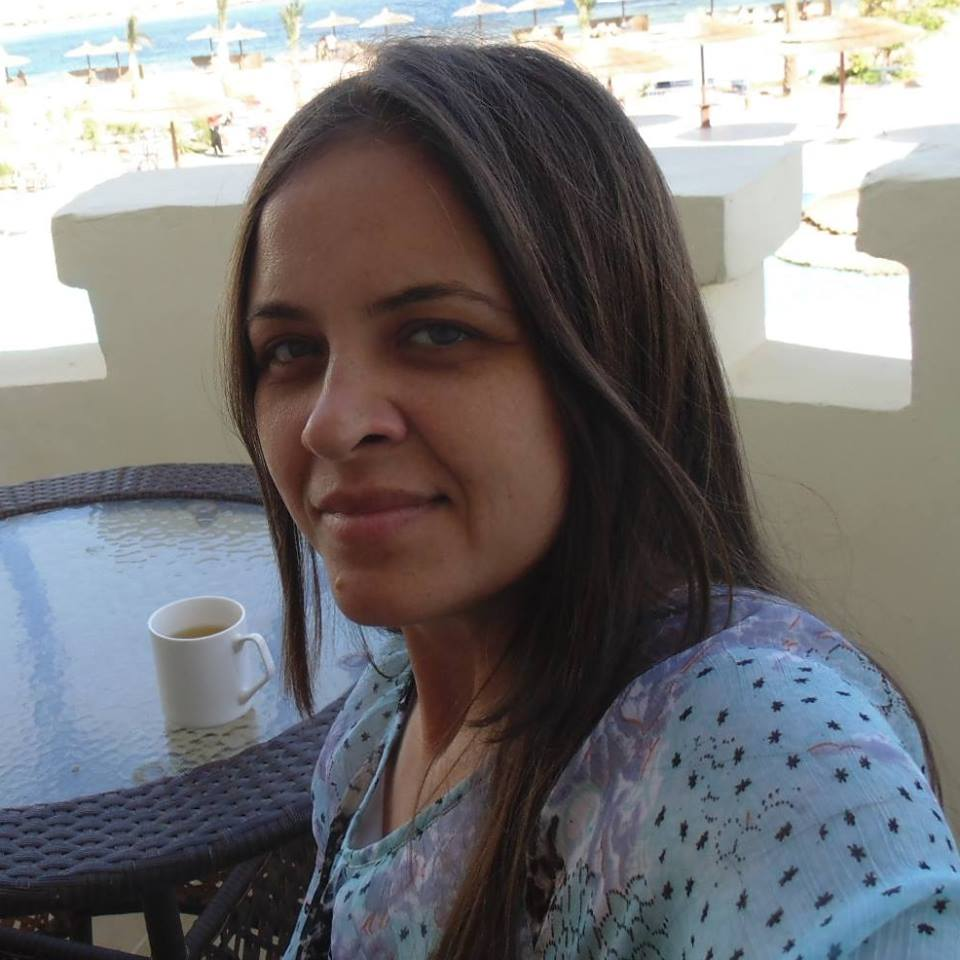
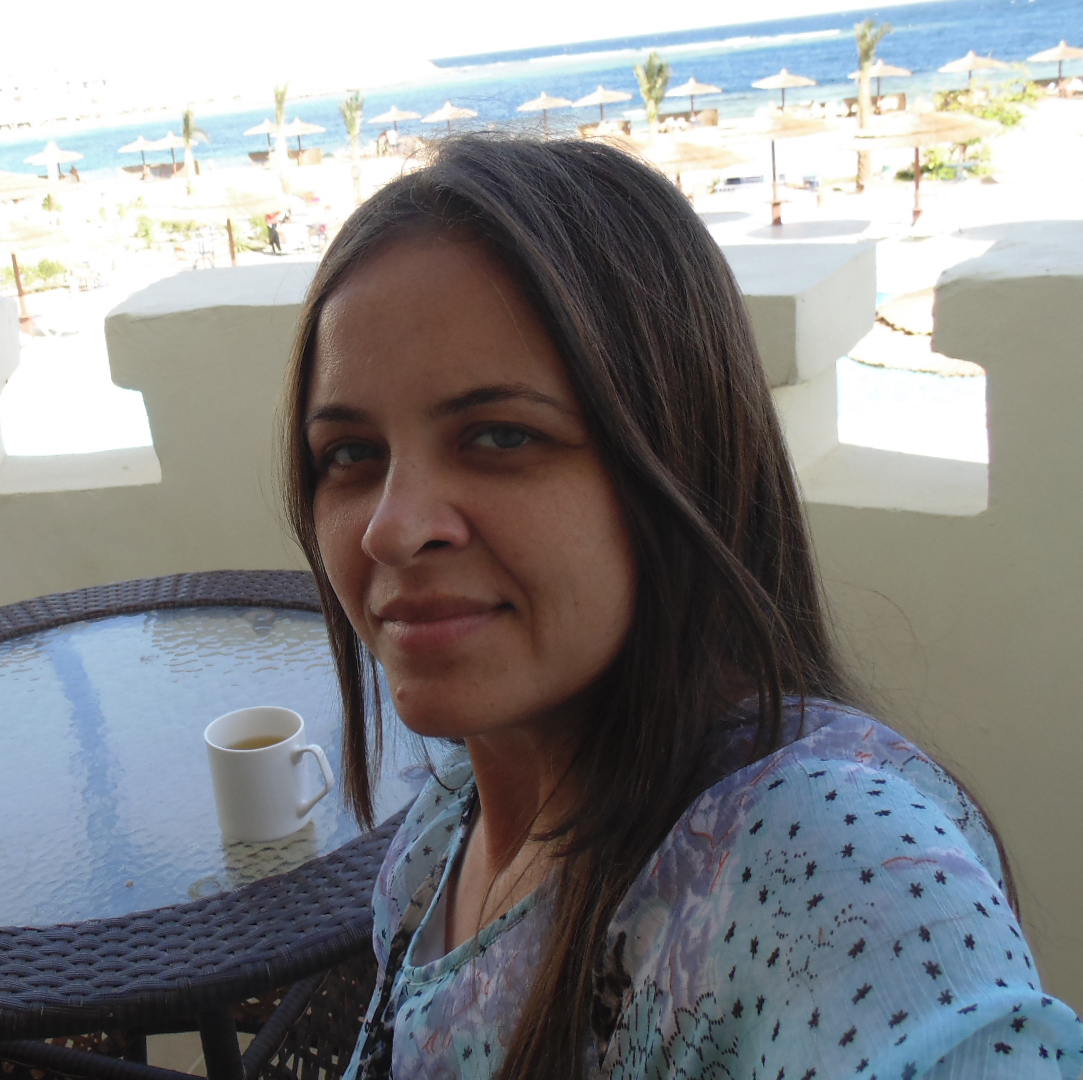
***

diff --git a/shore-of-eternity/src/index.html b/shore-of-eternity/src/index.html
@@ -372,7 +372,7 @@
                     Що  світ твій творив кожної миті,<br> 
                     А ти лиш тремтів мов билина на вітрі.<br>
                     Чого ж ти боїшся? Безсмертя жадаєш?<br>
-                    Ти мертвим не був, не є, і не станеш.<br><br>
+                    Ти смертним не був, не є, і не станеш.<br><br>
                     
                     Ти Вічність, Ти був перш, ніж всесвіт постане<br>
                     Бо ти є тим тлом на котрому зростає,<br>
@@ -422,7 +422,7 @@
                 </div>
             </div>
             <div class="seven__img">
-                <img  class="block__img" src="img/seven1.JPG" alt="photo">
+                <img  class="block__img" src="img/seven.JPG" alt="photo">
             </div>
     
 
@@ -435,7 +435,7 @@
 
  
     <footer class="footer">
-            <p class="footer__info">На березі вічності <span class="author">Оксана Кіч</span></p> 
+            <p class="footer__info">На березі вічності &copy; <span class="author">Оксана Кіч</span></p> 
             <p class="footer__info"><span class="year"> 2019</span> <span class="made">Made by </span> White Shore </p>
         </footer>
 
